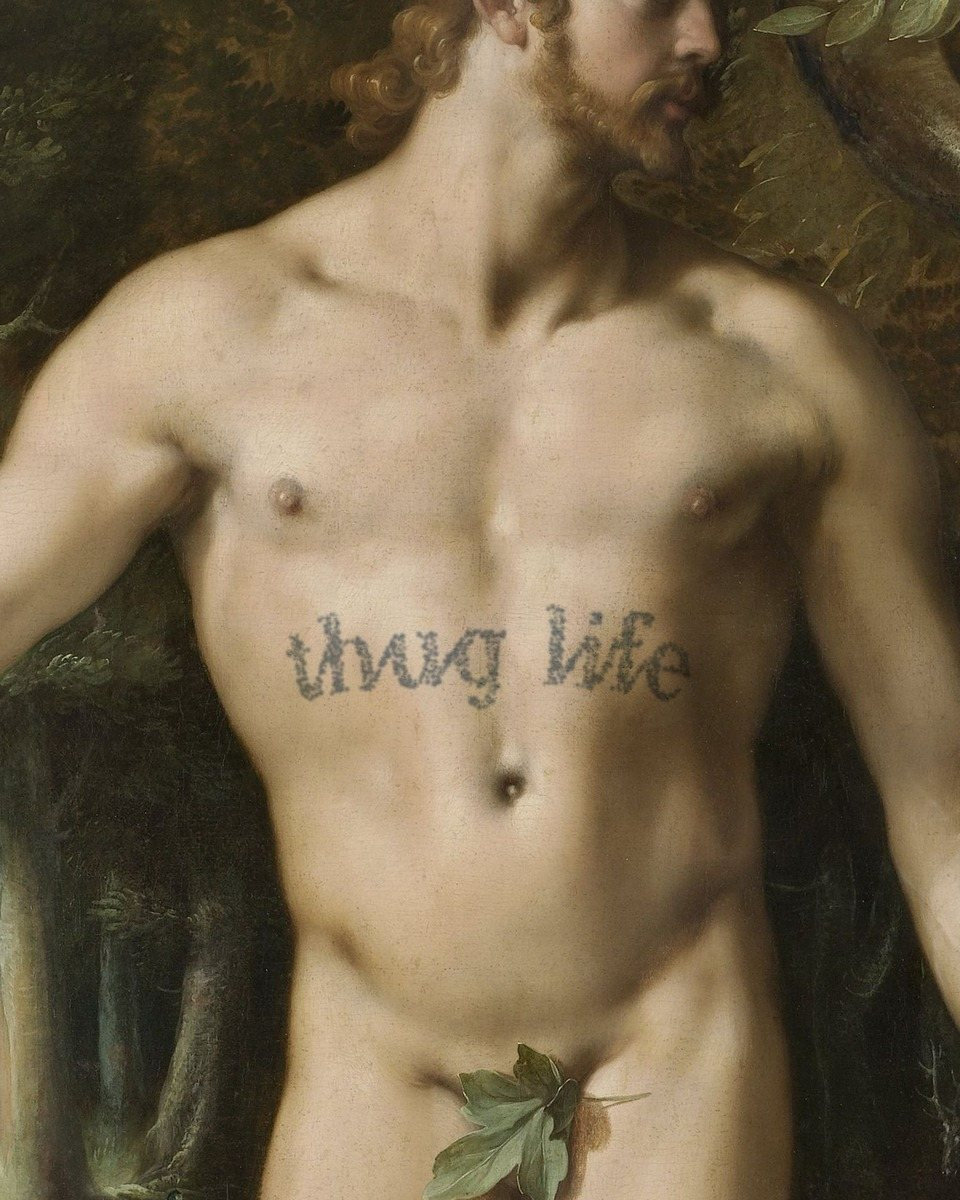
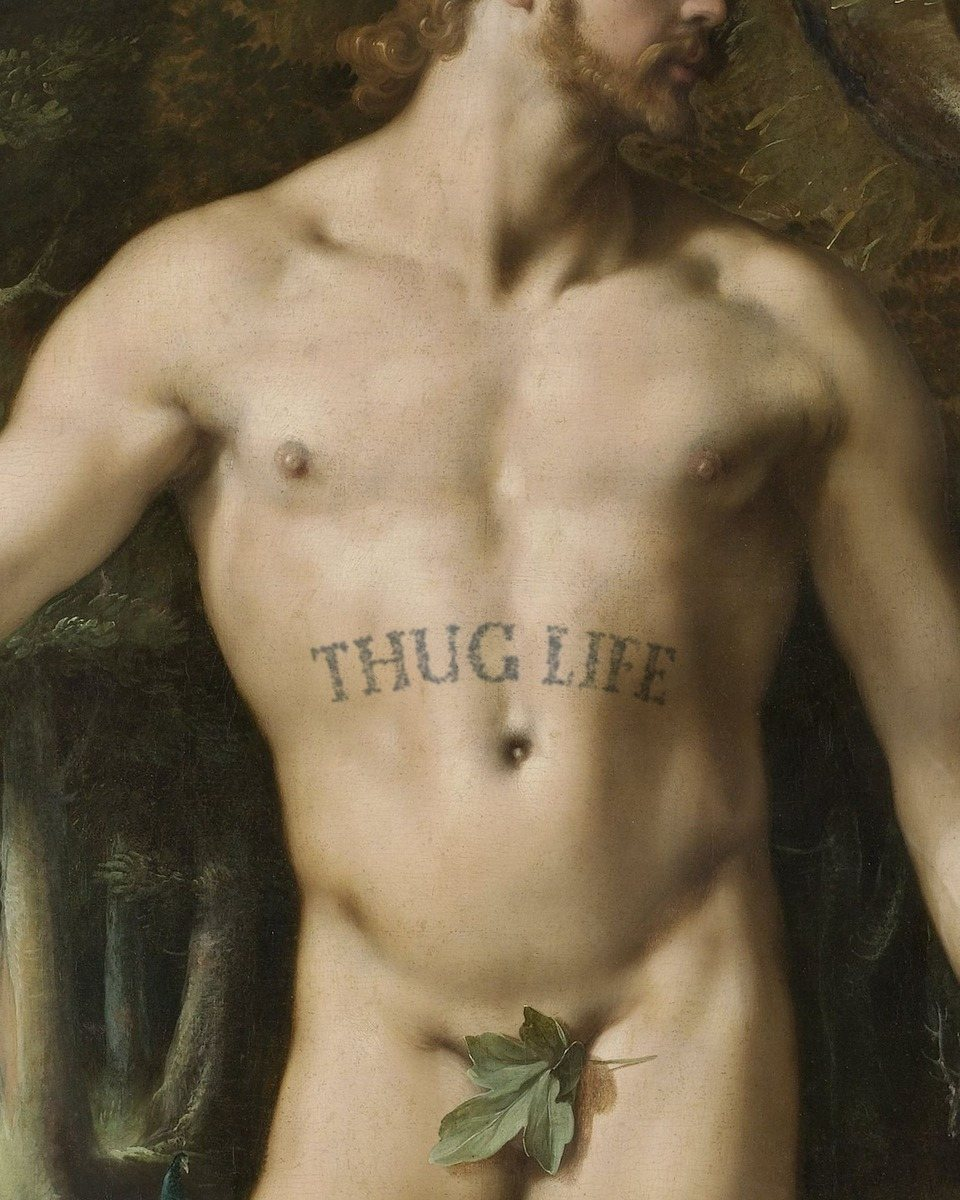
Site: Motörhead on the Milkmaid, THUG LIFE in caps, sorry second
The Milkmaid's forearm now reads Motörhead. Adam's belly reads THUG LIFE
in capitals, on a rounder, lower arch after Tupac's. The Pearl moves to
second, straight after the opener.

diff --git a/release/site/index.html b/release/site/index.html
@@ -51,23 +51,23 @@ html, body { height: 100%; background: var(--paper); color: var(--ink); font: 14
 <h1 hidden>Lowie</h1>
 <div class="view"><main class="strip" id="s">
   <section class="panel open"><img src="img/odalisque.jpg" alt="Lowie tattooed on the lower back of Ingres' Grande Odalisque"></section>
-  <section class="panel img"><img src="img/milkmaid.jpg" alt="Metallica tattooed on the forearm of Vermeer's Milkmaid" loading="lazy"></section>
+  <section class="panel img"><img src="img/pearl.jpg" alt="sorry and two teardrops tattooed on the cheek of Vermeer's Girl with a Pearl Earring" loading="lazy"></section>
+  <section class="panel img"><img src="img/milkmaid.jpg" alt="Motörhead tattooed on the forearm of Vermeer's Milkmaid" loading="lazy"></section>
   <section class="panel img wide"><img src="img/socrates.jpg" alt="no regrets tattooed on the chest of David's Socrates" loading="lazy"></section>
   <section class="panel img"><img src="img/bride.jpg" alt="LOVE tattooed on the back of a hand in Rembrandt's Jewish Bride" loading="lazy"></section>
   <section class="panel img wide"><img src="img/musicians.jpg" alt="anarchy tattooed on the upper back of a boy in Caravaggio's Musicians" loading="lazy"></section>
-  <section class="panel img"><img src="img/adam.jpg" alt="thug life tattooed across Adam's stomach in Cornelis van Haarlem's Fall of Man" loading="lazy"></section>
-  <section class="panel img"><img src="img/pearl.jpg" alt="sorry and two teardrops tattooed on the cheek of Vermeer's Girl with a Pearl Earring" loading="lazy"></section>
+  <section class="panel img"><img src="img/adam.jpg" alt="THUG LIFE tattooed across Adam's stomach in Cornelis van Haarlem's Fall of Man" loading="lazy"></section>
   <section class="panel end">
     <div class="tester"><span class="lw" id="type" contenteditable spellcheck="false" autocapitalize="off" role="textbox" aria-label="Type to try Lowie">So it goes…</span><span class="caret" aria-hidden="true"></span></div>
     <p class="links"><a href="https://github.com/ben-southpaw/lowie/releases/latest">Download Lowie, free (OFL)</a> · <a href="specimen/">Specimen</a> · <a href="worn/">Lowie Worn</a></p>
     <ol class="credits">
       <li><b>La Grande Odalisque</b>, Jean-Auguste-Dominique Ingres, 1814. Louvre, Paris</li>
+      <li><b>Girl with a Pearl Earring</b>, Johannes Vermeer, c. 1665. Mauritshuis, The Hague</li>
       <li><b>The Milkmaid</b>, Johannes Vermeer, c. 1660. Rijksmuseum, Amsterdam</li>
       <li><b>The Death of Socrates</b>, Jacques-Louis David, 1787. The Met, New York</li>
       <li><b>The Jewish Bride</b>, Rembrandt van Rijn, c. 1665. Rijksmuseum, Amsterdam</li>
       <li><b>The Musicians</b>, Caravaggio, 1597. The Met, New York</li>
       <li><b>The Fall of Man</b>, Cornelis van Haarlem, 1592. Rijksmuseum, Amsterdam</li>
-      <li><b>Girl with a Pearl Earring</b>, Johannes Vermeer, c. 1665. Mauritshuis, The Hague</li>
       <li>Paintings in the public domain. Lowie 0.7 © 2026 Ben Dryden, <a href="OFL.txt" style="color:inherit">SIL Open Font License 1.1</a>.</li>
     </ol>
   </section>

diff --git a/source/old-masters/fit_adam.py b/source/old-masters/fit_adam.py
@@ -6,9 +6,12 @@ def axis_s(pts, x):
     pts = np.asarray(pts, float)
     seg = np.r_[0, np.cumsum(np.hypot(*np.diff(pts, axis=0).T))]
     return np.interp(x, pts[:, 0], seg)
-if word == "thug life":     # across the belly, arched, Tupac style
-    R0 = 1700; pts = [(1530 + R0 * np.sin(t), 2600 + R0 * (1 - np.cos(t))) for t in np.linspace(-0.27, 0.27, 9)]
-    H = 200
+if word.lower() == "thug life":     # across the belly, arched, Tupac style
+    # lowercase: a shallow arch. Caps copy Tupac's: a rounder arch, set lower on the belly. Same arc length either way.
+    R0, Y0 = (1700, 2600) if word.islower() else (950, 2665)
+    T = 0.27 * 1700 / R0
+    pts = [(1530 + R0 * np.sin(t), Y0 + R0 * (1 - np.cos(t))) for t in np.linspace(-T, T, 11)]
+    H = 200 if word.islower() else int(sys.argv[2]) if len(sys.argv) > 2 else 150
 else:                       # across the chest, above the nipples
     pts = [(1150, 2250), (1530, 2210), (1910, 2250)]
     H = 175
